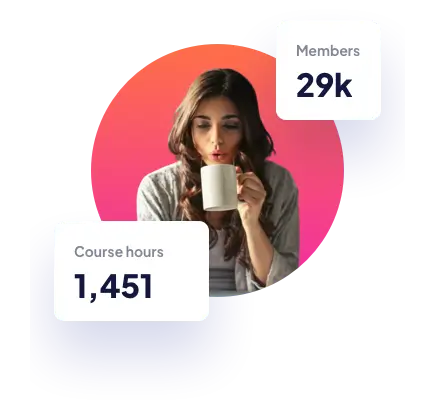
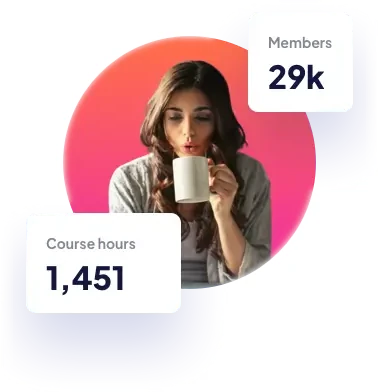
Complete website

Changed region(s): [[0.1455, 0.0918, 0.873, 0.7347], [0.1164, 0.5816, 0.4656, 0.7959]]

diff --git a/src/App.tsx b/src/App.tsx
@@ -1,3 +1,4 @@
+import { CourseCard } from './components/CourseCard';
 import { Header } from './components/Header';
 import imageHeroMobile from './assets/images/image-hero-mobile.webp';
 import imageHeroMobile2x from './assets/images/image-hero-mobile@2x.webp';
@@ -5,25 +6,70 @@ import imageHeroTablet from './assets/images/image-hero-tablet.webp';
 import imageHeroTablet2x from './assets/images/image-hero-tablet@2x.webp';
 import imageHeroDesktop from './assets/images/image-hero-desktop.webp';
 import imageHeroDesktop2x from './assets/images/image-hero-desktop@2x.webp';
+import iconAnimation from './assets/icons/icon-animation.svg';
+import iconBusiness from './assets/icons/icon-business.svg';
+import iconCrypto from './assets/icons/icon-crypto.svg';
+import iconDesign from './assets/icons/icon-design.svg';
+import iconPhotography from './assets/icons/icon-photography.svg';
+import ButtonOrange from './components/ButtonOrange';
+import { Footer } from './components/Footer';
 
 function App() {
   return (
-    <div className='max-w-6xl mx-auto'>
-      <Header />
-      <main className='py-6 px-4 sm:px-8'>
-        <div>
-          <h1>Maximize skill, minimize budget</h1>
-          <p>Our modern courses across a range of in-demand skills will give you the knowledge you need to live the life you want.</p>
-          <a href="#">Get Started</a>
+    <>
+      {/* Container that defines the limits of the image at the top right of the page with absolute positioning */}
+      <div className='max-w-[1440px] mx-auto relative overflow-x-clip'>
+        <Header />
+        {/* Top section */}
+        {/* Container that defines horizontal limits of the top section */}
+        <div className='max-w-6xl mx-auto'>
+          <div className='sm:px-10 sm:grid sm:grid-cols-[60%_auto] sm:mt-20 xl:mt-44'>
+            <div className='px-4 sm:px-0'>
+              <h1 className='text-dark font-extrabold text-[40px] leading-[50px] xl:text-[56px] xl:leading-[71px]'>Maximize skill, minimize budget</h1>
+              <p className='font-medium text-gray mt-7 leading-7 max-w-md'>Our modern courses across a range of in-demand skills will give you the knowledge you need to live the life you want.</p>
+              <ButtonOrange />
+            </div>
+            <picture>
+              <source srcSet={`${imageHeroDesktop}, ${imageHeroDesktop2x} 2x`} media='(min-width: 1280px)' />
+              <source srcSet={`${imageHeroTablet}, ${imageHeroTablet2x} 2x`} media='(min-width: 640px)' />
+              <source srcSet={`${imageHeroMobile}, ${imageHeroMobile2x} 2x`} />
+              <img src={`${imageHeroDesktop}`} alt="hero" className='mt-5 mx-auto -z-10 sm:mt-0 sm:absolute sm:-top-20 sm:-right-[19rem] xl:-top-[10rem] xl:-right-[22rem]' />
+            </picture>
+          </div>
         </div>
-        <picture>
-          <source srcSet={`${imageHeroDesktop}, ${imageHeroDesktop2x} 2x`} media='(min-width: 768px)' />
-          <source srcSet={`${imageHeroTablet}, ${imageHeroTablet2x} 2x`} media='(min-width: 640px)' />
-          <source srcSet={`${imageHeroMobile}, ${imageHeroMobile2x} 2x`}/>
-          <img src={`${imageHeroDesktop}`} alt="hero" className='sm:absolute sm:-top-10 sm:-right-60'/>
-        </picture>
-      </main>
-    </div>
+      </div>
+      {/* Courses section */}
+      {/* Container that defines the full page width gradient */}
+      <div className='bg-gradient-to-b from-white to-[#F0F1FF]'>
+        {/* Container that defines horizontal limits of the content */}
+        <div className='max-w-6xl mx-auto px-4 sm:px-10 pb-20 sm:mt-56 lg:mt-56'>
+          <div className='mt-12 grid gap-y-12 sm:grid-cols-courses sm:gap-x-3 lg:gap-x-6 xl:gap-y-20'>
+            <p className='font-bold text-2xl bg-gradient-to-b from-orange to-light-purple text-white py-6 px-7 inline-block rounded-xl min-[692px]:pt-14'>Checkout our most popular courses!</p>
+            <CourseCard
+              icon={iconAnimation}
+              title='Animation'
+              description='Learn the latest animation techniques to create stunning motion design and captivate your audience.' />
+            <CourseCard
+              icon={iconDesign}
+              title='Design'
+              description='Create beautiful, usable interfaces to help shape the future of how the web looks.' />
+            <CourseCard
+              icon={iconPhotography}
+              title='Photography'
+              description='Explore critical fundamentals like lighting, composition, and focus to capture exceptional photos.' />
+            <CourseCard
+              icon={iconCrypto}
+              title='Crypto'
+              description='All you need to know to get started investing in crypto. Go from beginner to advanced with this 54 hour course.' />
+            <CourseCard
+              icon={iconBusiness}
+              title='Business'
+              description='A step-by-step playbook to help you start, scale, and sustain your business without outside investment.' />
+          </div>
+        </div>
+      </div>
+      <Footer />
+    </>
   )
 }
 

diff --git a/src/components/CourseCard.tsx b/src/components/CourseCard.tsx
@@ -1,0 +1,16 @@
+type CourseCardProps = {
+  title: string;
+  description: string;
+  icon: string;
+}
+
+export function CourseCard(props: CourseCardProps) {
+  return (
+    <div className='bg-white px-7 pb-8 rounded-xl'>
+      <img src={props.icon} alt="icon" className='-translate-y-1/2' />
+      <h3 className='font-extrabold text-xl leading-6'>{props.title}</h3>
+      <p className='font-medium text-gray mt-4'>{props.description}</p>
+      <a href="" className='inline-block font-bold text-lg leading-7 text-dark-pink mt-6'>Get Started</a>
+    </div>
+  )
+}

diff --git a/src/components/Header.tsx b/src/components/Header.tsx
@@ -1,11 +1,11 @@
 import logoDark from '../assets/icons/logo-dark.svg';
-import { DarkButton } from './DarkButton';
+import ButtonDark from './ButtonDark';
 
 export function Header() {
   return (
-    <header className='py-6 px-4 sm:px-8 flex items-center justify-between'>
-      <img src={logoDark} alt="logo" className='w-24' />
-      <DarkButton />
+    <header className='py-6 px-4 max-w-6xl mx-auto flex items-center justify-between sm:px-8'>
+      <img src={logoDark} alt="logo" className='w-[89px] xl:w-[114px]'/>
+      <ButtonDark />
     </header>
   )
 }

diff --git a/src/components/Footer.tsx b/src/components/Footer.tsx
@@ -1,0 +1,13 @@
+import logoLight from '../assets/icons/logo-light.svg';
+import ButtonPurple from './ButtonPurple';
+
+export function Footer() {
+  return (
+    <footer className='bg-dark'>
+      <div className='py-6 px-4 max-w-6xl mx-auto flex items-center justify-between sm:px-8'>
+        <img src={logoLight} alt="logo" className='w-[89px] xl:w-[114px]'/>
+        <ButtonPurple />
+      </div>
+    </footer>
+  )
+}

diff --git a/src/components/ButtonPurple.tsx b/src/components/ButtonPurple.tsx
@@ -1,0 +1,5 @@
+export default function ButtonPurple() {
+  return (
+    <a href="#" className='font-bold leading-7 bg-dark text-white bg-gradient-to-b from-purple to-light-purple hover:bg-purple-light py-2.5 px-6 rounded-[28px] text-base hover:bg-blue xl:text-lg xl:px-8 xl:py-3.5'>Get Started</a>
+  )
+}

diff --git a/src/components/ButtonOrange.tsx b/src/components/ButtonOrange.tsx
@@ -1,0 +1,5 @@
+export default function ButtonOrange() {
+  return (
+    <a href="#" className='font-bold text-white bg-gradient-to-b from-orange to-light-purple inline-block py-[15px] px-[38px] mt-5 rounded-full hover:opacity-50 xl:text-lg xl:py-[19px] xl:px-[31px] xl:mt-10'>Get Started</a>
+  )
+}

diff --git a/src/components/ButtonDark.tsx b/src/components/ButtonDark.tsx
@@ -1,0 +1,5 @@
+export default function ButtonDark({ }) {
+  return (
+    <a href="#" className='font-bold leading-7 bg-dark text-white py-2.5 px-6 rounded-[28px] text-base hover:bg-blue xl:text-lg xl:px-8 xl:py-3.5'>Get Started</a>
+  )
+}
